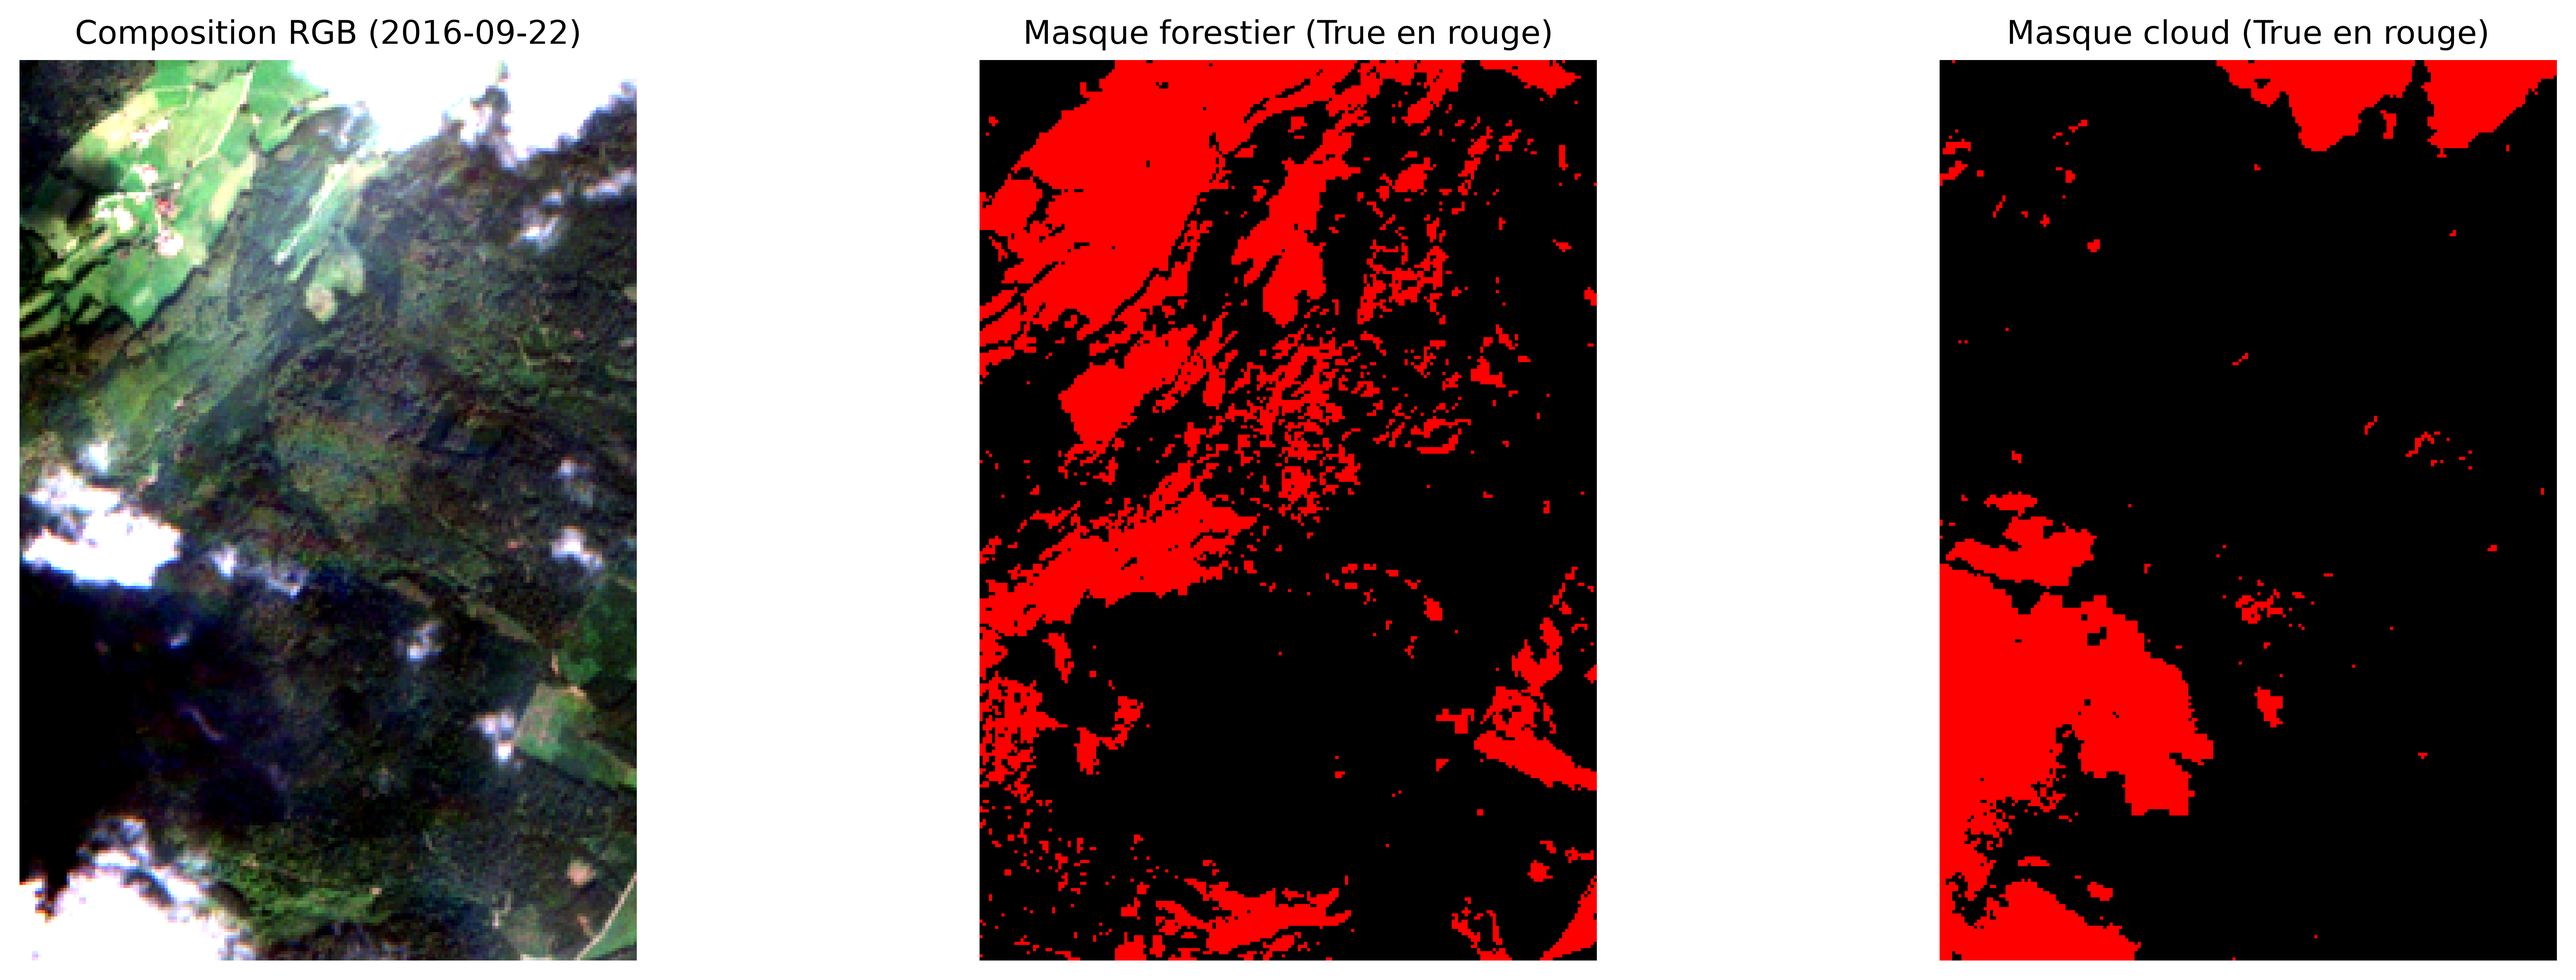
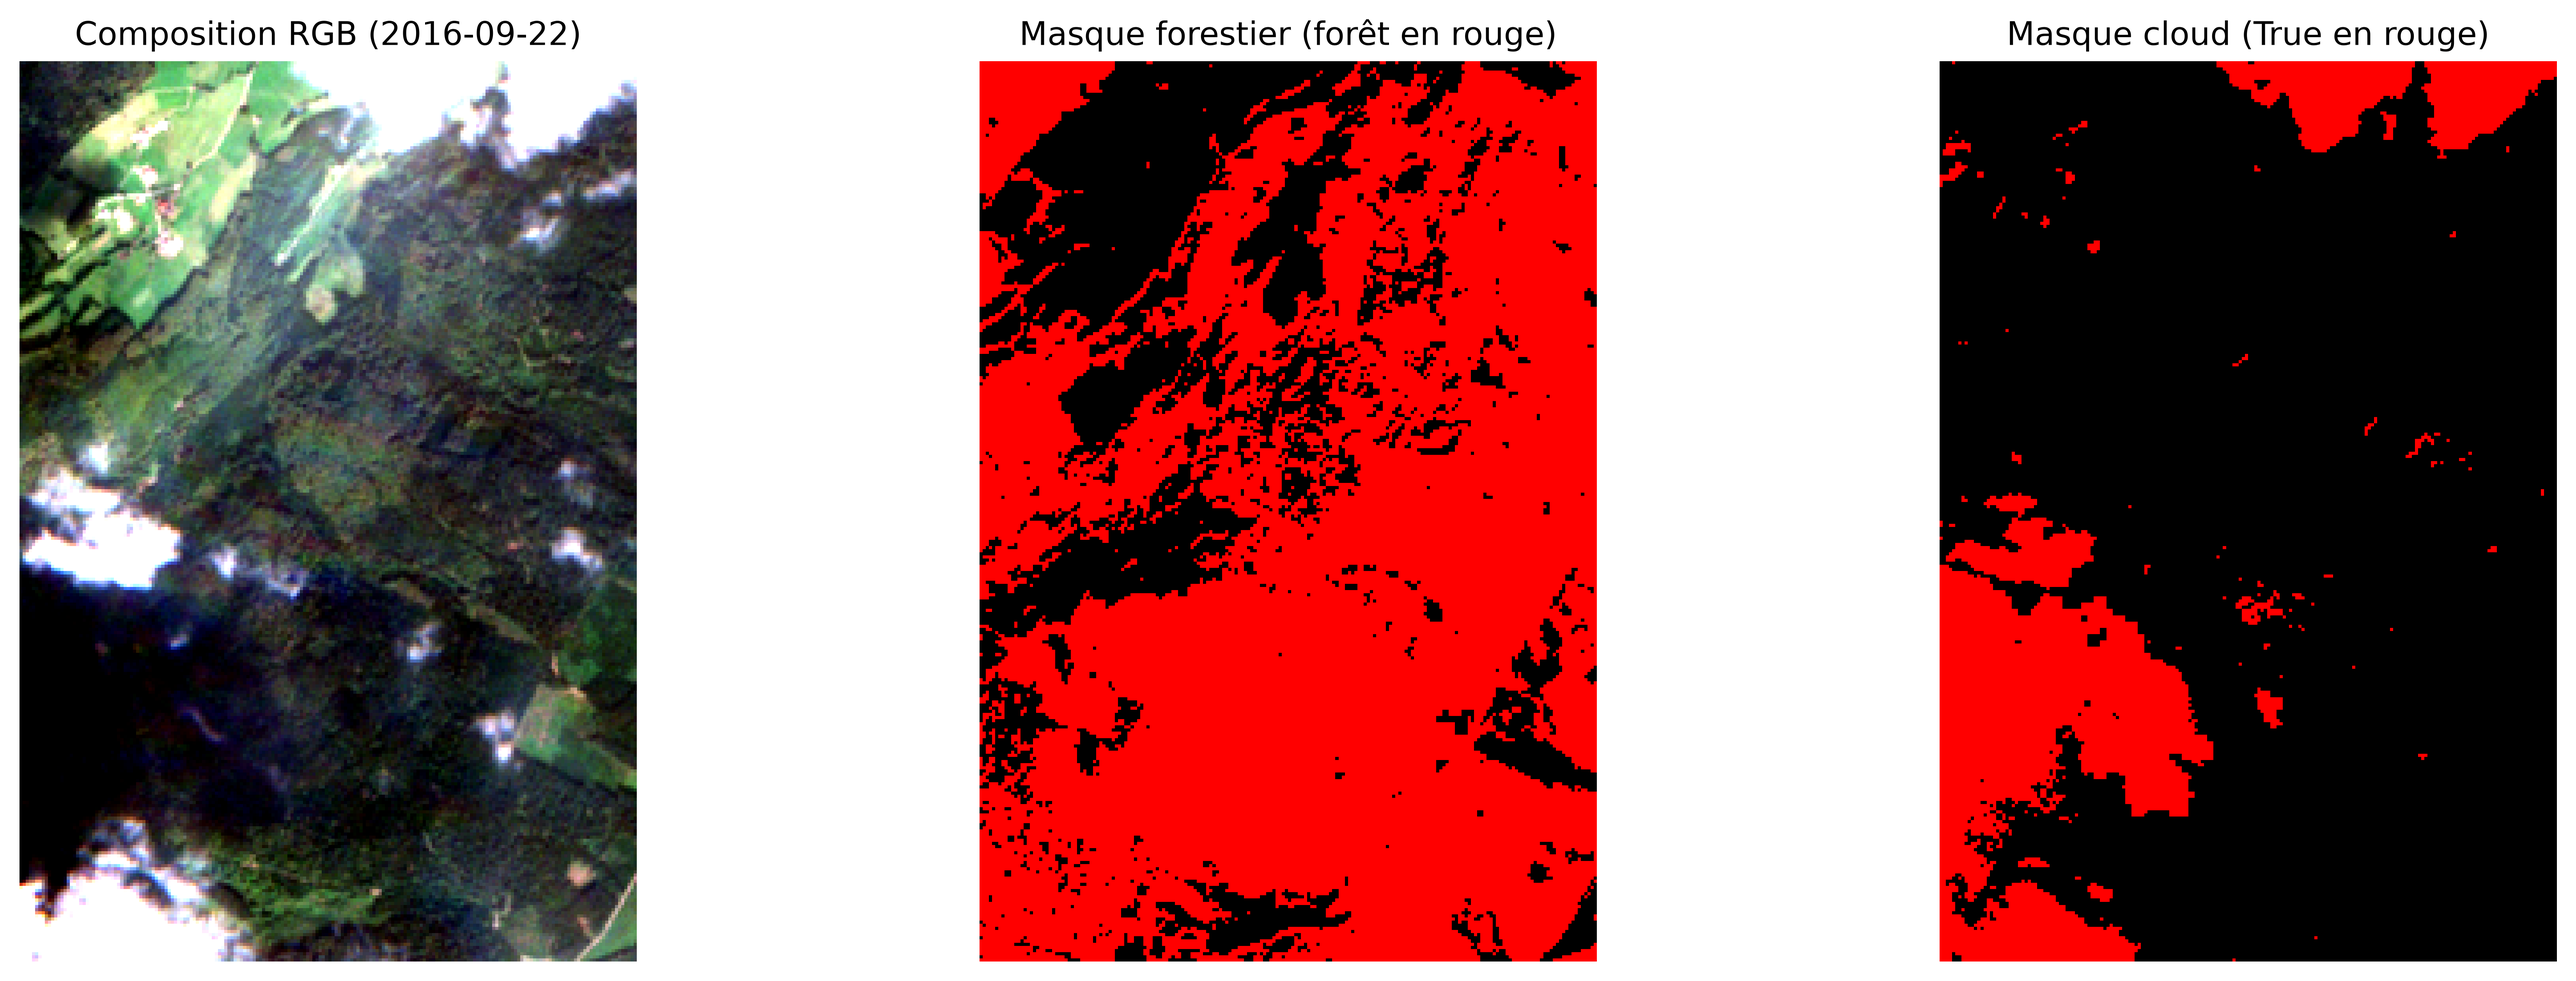
modifs dernieres

diff --git a/main_CRswir.py b/main_CRswir.py
@@ -265,11 +265,14 @@ if __name__ == "__main__":
     axs[0].imshow(classe_retour, cmap=cmap7, vmin=0, vmax=3, interpolation="nearest")
     axs[0].set_title("Non-retour à un CRswir normal\nscolytes (orange) / sécheresse (bleu) / indéterminé (gris)")
     axs[0].axis("off")
+    # Pixels choisis pour illustrer chaque classe (comportement net, >= 30 dates valides) :
+    #   scolytes   (219, 97) : détecté le 9 juillet, monte jusqu'à +0,55 et ne redescend jamais
+    #   sécheresse (29, 80)  : détecté le 3 août, pic à peine au-dessus de la borne puis retour net
+    exemples = {1: (219, 97), 2: (29, 80)}
     for c, couleur, nom in [(1, "darkorange", "scolytes"), (2, "royalblue", "sécheresse")]:
-        idx = np.argwhere(classe_retour == c)
-        if len(idx) == 0:
-            continue
-        i, j = idx[len(idx) // 2]
+        i, j = exemples[c]
+        if classe_retour[i, j] != c:
+            print(f"  attention : le pixel exemple {nom} ({i},{j}) n'est plus dans sa classe")
         ok = ~mask_test[:, i, j]
         axs[1].plot(days_test[ok], CRswir_test[ok, i, j] - pred_test["haut"][ok, i, j], "o-",
                     color=couleur, label=f"{nom} ({i},{j})")

diff --git a/preprocess.py b/preprocess.py
@@ -121,9 +121,9 @@ def compute_forest_mask(
         warnings.simplefilter("ignore", RuntimeWarning)   # pixels never valid in summer
         med_b08 = np.nanmedian(b08, axis=0)
         med_b03 = np.nanmedian(b03, axis=0)
-    forest_mask = (med_b08 < seuil_b08) & (med_b03 < seuil_b03)
-    forest_mask = ~forest_mask  
+    # True = forest (NOT a "masked" pixel: to display what is excluded, use ~forest_mask)
     # NaN (never valid in summer) -> comparisons are False -> not forest
+    forest_mask = (med_b08 < seuil_b08) & (med_b03 < seuil_b03)
     return forest_mask
 
 

diff --git a/test_preprocess.py b/test_preprocess.py
@@ -90,7 +90,7 @@ forest_ax.imshow(
     interpolation="nearest",
 )
 forest_ax.axis("off")
-forest_ax.set_title("Masque forestier (True en rouge)")
+forest_ax.set_title("Masque forestier (forêt en rouge)")
 
 cloud_ax.imshow(
     cloud_mask,
